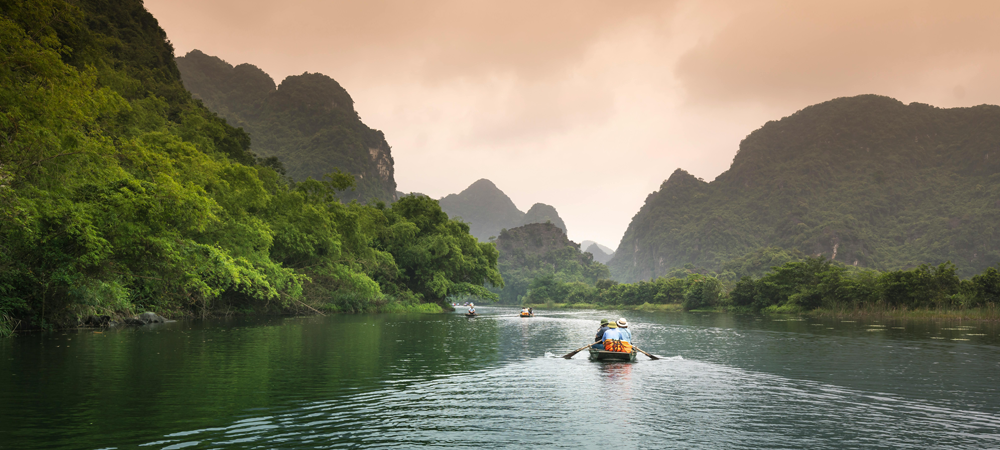
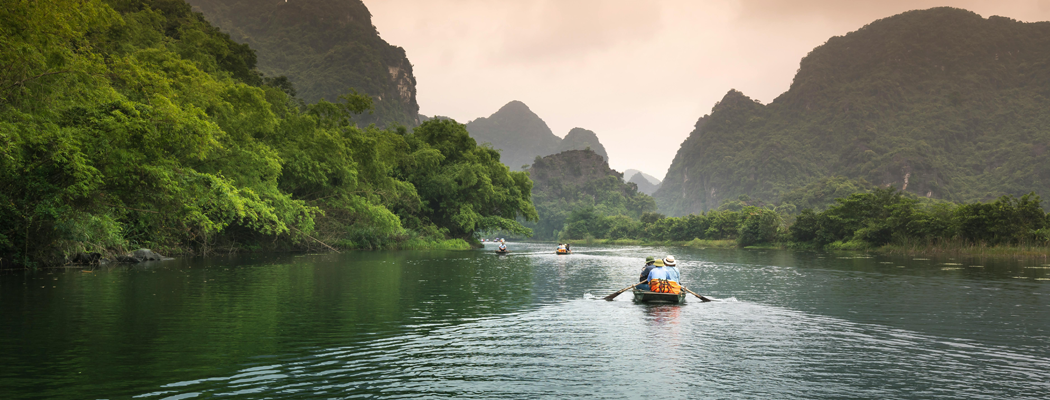
week5

diff --git a/wwr/styles/rafting.css b/wwr/styles/rafting.css
@@ -15,17 +15,18 @@
     --nav-hover-link-color: #9090ed;
     --nav-hover-background-color: #0aae5c;
 
-    width: 1000px;    
+    width: 1050px;  
 }
 body {
     font-family: var(--paragraph-font);
     color: black;
-    max-width: 1000px;
+    max-width: 1050px;
     padding: 20px;
-    width: 1000px;
+    width: 1050px;
 }
 main {
     background-color: rgb(92, 111, 104,.7); 
+    width: 1050px;
 }
 h1, h2, h3, h4, h5, h6 {
     font-family: var(--heading-font);
@@ -36,14 +37,14 @@ a:link, a:visited, a:hover, a:active{
 }
 header {
     display: grid;
-    grid-template-columns: 200px 2fr;
+    grid-template-columns: 200px 1fr;
     align-items: center;
-    max-width: 1000px;
+    max-width: 1050px;
     margin: 1rem auto;
     border-bottom: 1px solid black;
     gap: 20px;
     height: 7rem;
-    width: 1000px;
+    width: 1050px;
     background-image: linear-gradient(to left, #5C6F68, #8AA39B);
 }
 header img {
@@ -74,13 +75,13 @@ header nav a:hover {
 }
 .hero img {
     display: block;
-    width: 1000px;
+    width: 1050px;
     height: auto;
 }
 .hero h1 {
     position: absolute;
     color: white;
-    width: 1000px;
+    width: 1050px;
     top: 5px;
     text-align: center;
     background-color: rgb(0, 0, 0, .5);
@@ -108,7 +109,7 @@ header nav a:hover {
     margin-top: 20px;
     grid-template-columns: 1fr 1fr 2fr 1fr 1fr;
     grid-template-rows: 30px 1fr;
-    width: 1000px;
+    width: 1050px;
     row-gap: 20px;
 }
 .history section h2 {
@@ -202,7 +203,7 @@ header nav a:hover {
     display: grid;
     grid-template-columns: 70px 1fr 1fr 70px;
     grid-template-rows: auto auto auto;
-    width: 1000px;
+    width: 1050px;
     height: 500px;
     gap: 20px;
     align-items: center;
@@ -222,7 +223,6 @@ header nav a:hover {
     width: 1000px;
     height: 100px;
     background-color: rgb(92, 111, 104,.9);
-
 }
 .start h1 {
     grid-column: 1/3;
@@ -414,7 +414,7 @@ header nav a:hover {
     display: grid;
     grid-template-columns: repeat(2,1fr);
     grid-template-rows: 80px 40px 390px 50px;
-    width: 1000px;
+    width: 1050px;
     height: 620px;
     gap: 20px;
 }
@@ -437,7 +437,7 @@ header nav a:hover {
     grid-row: 3/4;
     align-self: center;
     justify-self: center;
-    width: 1000px;
+    width: 1050px;
 }
 footer {
     display: grid;
